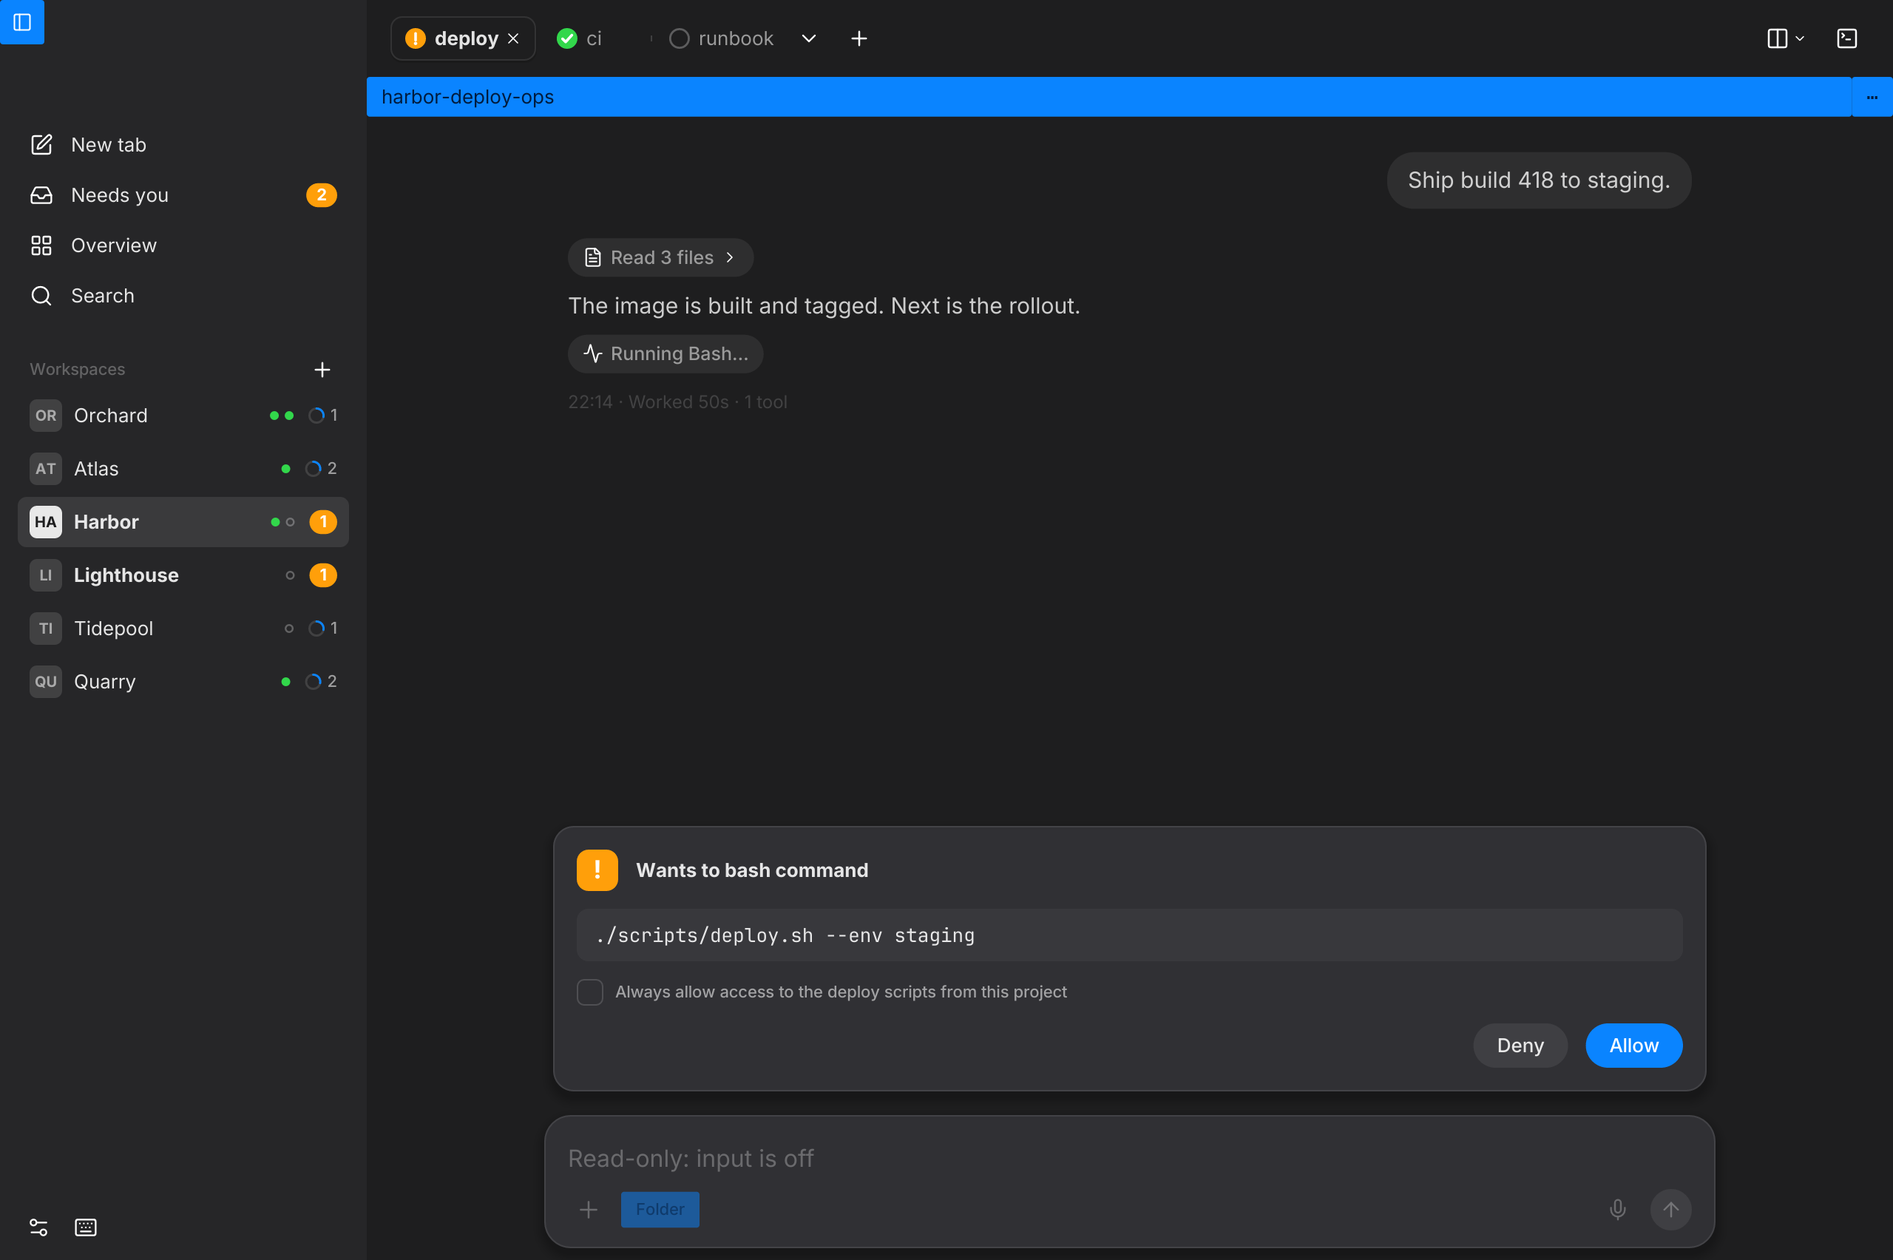
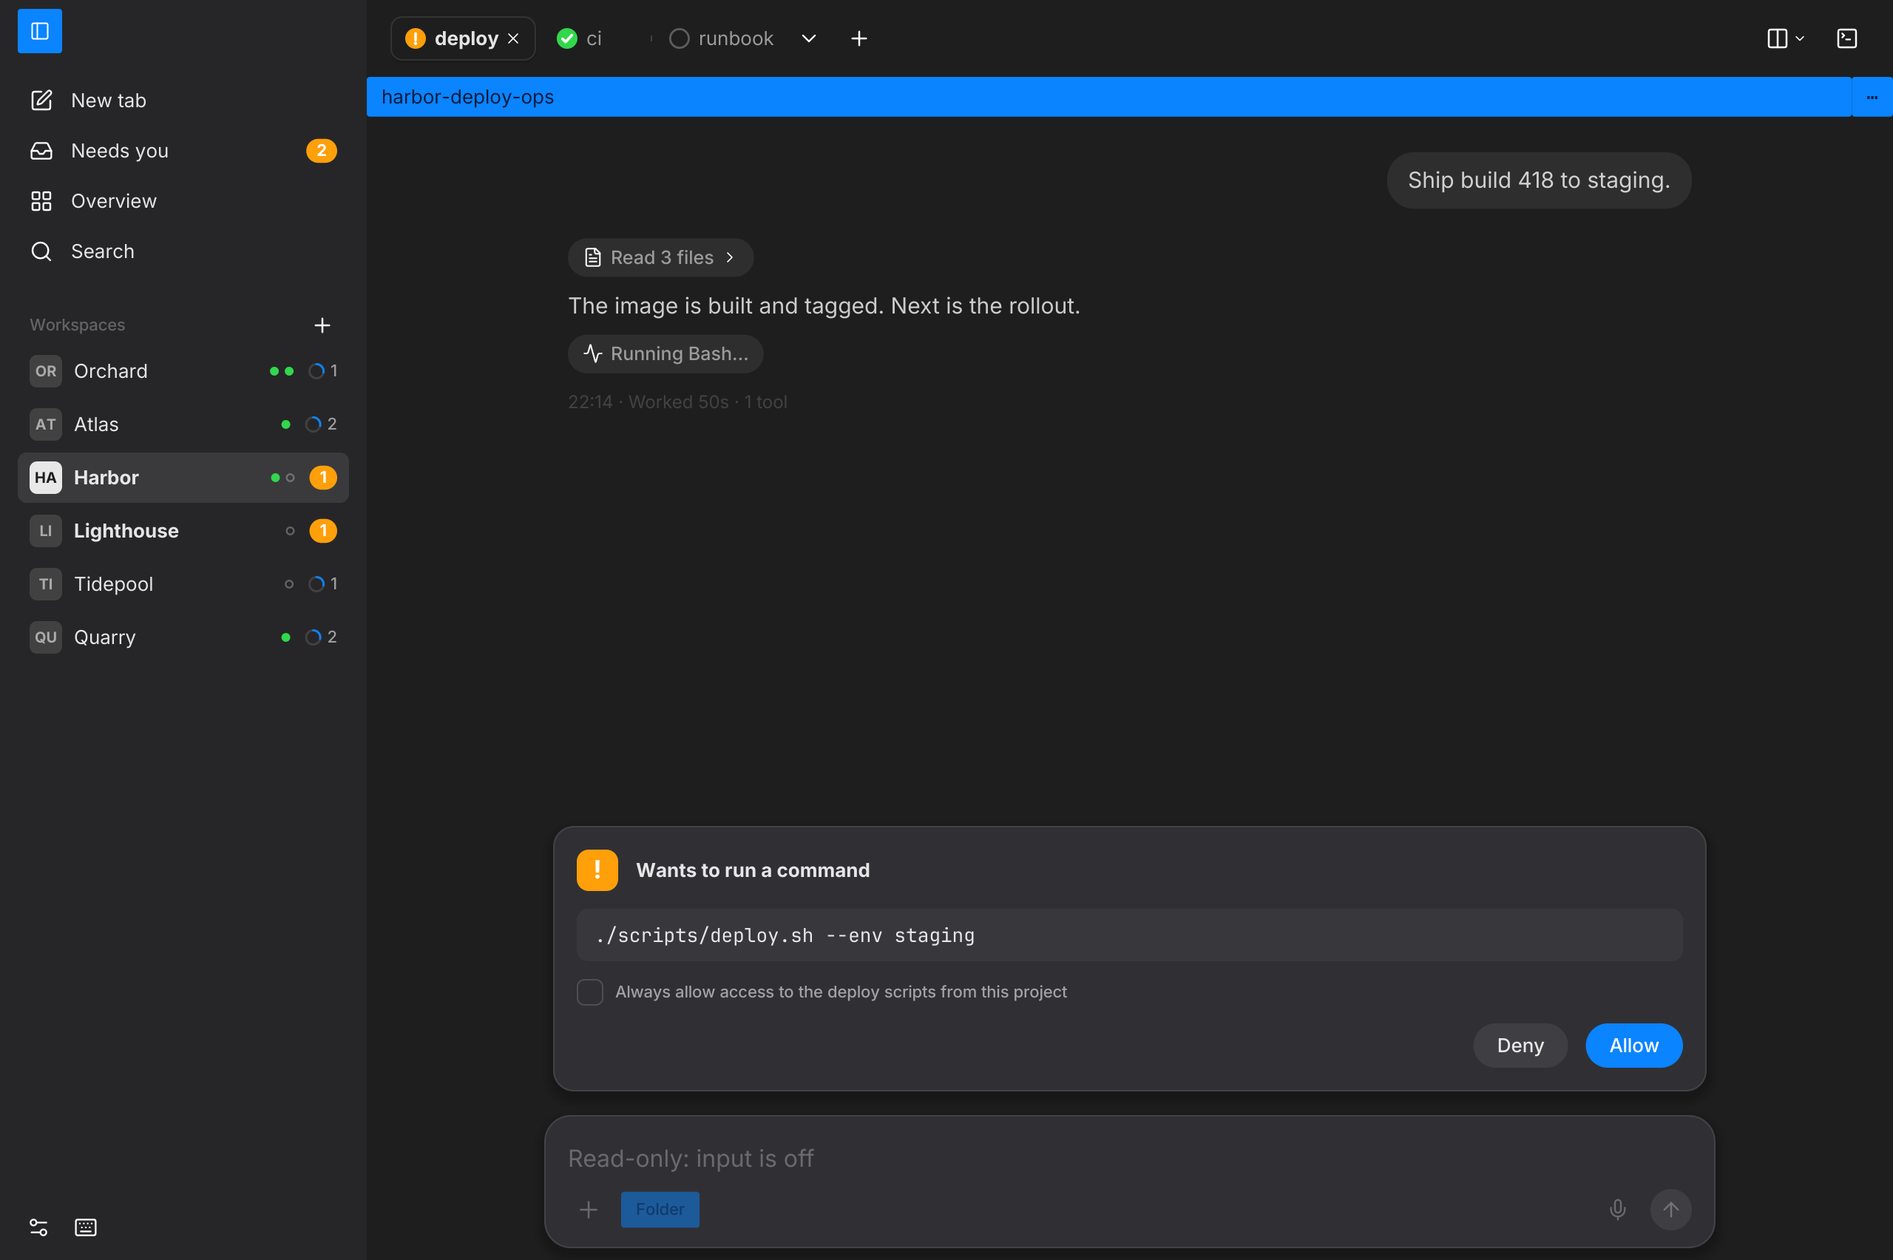
xplat: fix the 32 failing parity tests
Approval cards bind the logged pending request before any screen-only
request, Show earlier follows the load result, the sidebar top stays a
drag area, Settings tests open the Agents tab, the file picker inserts
paths, and a failed send's notice stays on its own pane.

Claude-Session: https://claude.ai/code/session_015NpaT4959uXQHQEhxDjdNt

diff --git a/xplat/flockbook/src/cards.rs b/xplat/flockbook/src/cards.rs
@@ -16,7 +16,8 @@
 //!   running tool. The card binds only to a lone Bash call of a Claude agent (no other call still open), and the screen must show
 //!   exactly its command as a Bash prompt ([`actions::request_shows`]); else the card is `unbound` (buttons off, a
 //!   notice to open the terminal). With no [`PaneActions`] installed (read-only) the screen cannot be read: the card
-//!   shows with its buttons off.
+//!   shows with its buttons off. When the log has no pending request (the agent logs the call late, or not at all), a
+//!   prompt on screen makes the card by itself ([`actions::screen_request`], Grok's framed box), through the same binder.
 //! - Question: Claude's open picker read from the screen (`question::claude_screen`; Claude logs the call only after
 //!   the answer), else a pending question item in the log (Codex).
 //!
@@ -180,38 +181,44 @@ pub fn detect(app: &App) -> Option<Card> {
                     }));
                 }
             }
+            // A pending request in the log is the request the owner is shown. The screen only says whether that request
+            // is on screen ([`actions::request_shows`]): a screen showing a different command never binds it, and it is
+            // never replaced by a request made up from the screen. Screen-only prompts are the fallback for the modes where
+            // the agent logs the call late (or not at all).
+            let logged = match last {
+                Some(ItemKind::PermissionRequest(p)) if p.state == PermState::Pending => Some(p),
+                _ => None,
+            };
+            if let Some(p) = logged {
+                let (can_act, always) = match (&st.actions, screen) {
+                    (None, _) => (false, None),
+                    (Some(_), Some(text)) if herdr_core::screen_shows_prompt(text) => (true, actions::always_allow(text)),
+                    // Not read yet, or no prompt on screen (a running tool): no card.
+                    (Some(_), _) => return None,
+                };
+                let identity = screen.filter(|_| can_act).and_then(actions::prompt_identity);
+                // Only a lone Bash call can bind: with parallel calls the screen may show another call's prompt.
+                let bindable = agent.kind == "claude" && p.tool_name == "Bash" && p.open_calls == 1;
+                let unbound = can_act && !(bindable && identity.as_ref().is_some_and(|id| actions::request_shows(id, &p.command, &p.detail)));
+                return Some(Card::Approval(Approval {
+                    key: format!("{}:{}", pane.id, p.tool_use_id),
+                    pane: pane.id.clone(),
+                    agent: agent.name.clone(),
+                    title: p.title.clone(),
+                    command: p.command.clone(),
+                    detail: p.detail.clone(),
+                    always,
+                    identity,
+                    stale: false,
+                    unbound,
+                    can_act: can_act && !unbound,
+                }));
+            }
             if agent.kind == "claude" {
                 if let Some((p, identity)) = screen.and_then(|s| Some((actions::screen_request(s)?, actions::prompt_identity(s)?))) {
                     return Some(Card::Approval(Approval {
                         key: format!("{}:{}", pane.id, p.tool_use_id), pane: pane.id.clone(), agent: agent.name.clone(),
                         title: p.title, command: p.command, detail: p.detail, always: screen.and_then(actions::always_allow), identity: Some(identity), stale: false, unbound: false, can_act: st.actions.is_some(),
-                    }));
-                }
-            }
-            if let Some(ItemKind::PermissionRequest(p)) = last {
-                if p.state == PermState::Pending {
-                    let (can_act, always) = match (&st.actions, screen) {
-                        (None, _) => (false, None),
-                        (Some(_), Some(text)) if herdr_core::screen_shows_prompt(text) => (true, actions::always_allow(text)),
-                        // Not read yet, or no prompt on screen (a running tool): no card.
-                        (Some(_), _) => return None,
-                    };
-                    let identity = screen.filter(|_| can_act).and_then(actions::prompt_identity);
-                    // Only a lone Bash call can bind: with parallel calls the screen may show another call's prompt.
-                    let bindable = agent.kind == "claude" && p.tool_name == "Bash" && p.open_calls == 1;
-                    let unbound = can_act && !(bindable && identity.as_ref().is_some_and(|id| actions::request_shows(id, &p.command, &p.detail)));
-                    return Some(Card::Approval(Approval {
-                        key: format!("{}:{}", pane.id, p.tool_use_id),
-                        pane: pane.id.clone(),
-                        agent: agent.name.clone(),
-                        title: p.title.clone(),
-                        command: p.command.clone(),
-                        detail: p.detail.clone(),
-                        always,
-                        identity,
-                        stale: false,
-                        unbound,
-                        can_act: can_act && !unbound,
                     }));
                 }
             }

diff --git a/xplat/flockbook/src/composer.rs b/xplat/flockbook/src/composer.rs
@@ -637,9 +637,13 @@ pub fn update(app: &mut App, msg: ComposerMsg) -> Task<Message> {
                         .or_default()
                         .push((text, pending.images));
                 }
-                c.error = Some(format!(
-                    "Send incomplete: {e}. Check the agent terminal before retrying."
-                ));
+                // The note belongs to the box it happened in (one composer per pane in the Swift app): a failure
+                // for a pane that is not shown must not put a note under the shown pane's draft.
+                if current {
+                    c.error = Some(format!(
+                        "Send incomplete: {e}. Check the agent terminal before retrying."
+                    ));
+                }
             } else if let Some(journal) = c
                 .sender
                 .as_ref()
@@ -675,12 +679,12 @@ pub fn update(app: &mut App, msg: ComposerMsg) -> Task<Message> {
                 })
             })
         }
-        ComposerMsg::Picked { pane, paths } => attach_paths(app, pane, paths),
+        ComposerMsg::Picked { pane, paths } => attach_paths(app, pane, paths, false),
         ComposerMsg::Attached(paths) => {
             let Some(pane) = app.state.composer.pane.clone() else {
                 return Task::none();
             };
-            attach_paths(app, pane, paths)
+            attach_paths(app, pane, paths, false)
         }
         ComposerMsg::Paste => {
             let Some(pane) = app.state.composer.pane.clone() else {
@@ -708,7 +712,7 @@ pub fn update(app: &mut App, msg: ComposerMsg) -> Task<Message> {
         } if !text.is_empty() => {
             app.state.composer.image_jobs = app.state.composer.image_jobs.saturating_sub(1);
             if let Some(paths) = clipboard_files(&text) {
-                return attach_paths(app, pane, paths);
+                return attach_paths(app, pane, paths, true);
             }
             insert_for(&mut app.state.composer, &pane, &text);
             Task::none()
@@ -724,7 +728,7 @@ pub fn update(app: &mut App, msg: ComposerMsg) -> Task<Message> {
             let Some(pane) = app.state.composer.pane.clone() else {
                 return Task::none();
             };
-            attach_paths(app, pane, vec![path])
+            attach_paths(app, pane, vec![path], true)
         }
         ComposerMsg::Images {
             pane,
@@ -1239,13 +1243,20 @@ fn image_path(path: &Path) -> bool {
         )
     })
 }
-fn attach_paths(app: &mut App, pane: String, paths: Vec<PathBuf>) -> Task<Message> {
+/// `chips`: turn image files into preview chips instead of inserting their paths. Only a drop does that. The + picker
+/// inserts every chosen path as text, images and folders included (`attach()`, `Sources/HerdrDesk/Composer.swift:260`),
+/// because the agent reads a path as an attachment.
+fn attach_paths(app: &mut App, pane: String, paths: Vec<PathBuf>, chips: bool) -> Task<Message> {
     if app.state.composer.sender.is_none() {
         return Task::none();
     }
-    let (images, files): (Vec<_>, Vec<_>) = paths
-        .into_iter()
-        .partition(|p| image_path(p) && !p.is_dir());
+    let (images, files): (Vec<_>, Vec<_>) = if chips {
+        paths
+            .into_iter()
+            .partition(|p| image_path(p) && !p.is_dir())
+    } else {
+        (Vec::new(), paths)
+    };
     if files.iter().any(|p| p.to_str().is_none()) {
         app.state.composer.error = Some("Attachment path is not valid UTF-8".into());
         return Task::none();

diff --git a/xplat/flockbook/tests/settings_shortcuts.rs b/xplat/flockbook/tests/settings_shortcuts.rs
@@ -7,7 +7,7 @@ use std::collections::HashMap;
 
 use fb_ui::Mode;
 use flockbook::glass::{self, Backdrop, Os};
-use flockbook::settings::{self, Prefs, ReadingWidth, SettingsMsg};
+use flockbook::settings::{self, Prefs, ReadingWidth, SettingsMsg, SettingsTab};
 use flockbook::shortcuts::{self, Action, Combo, Keys, K, TABLE};
 use flockbook::snapshot::{render_app, write_png};
 use flockbook::state::Screen;
@@ -189,7 +189,14 @@ fn cmd_comma_toggles_settings_and_closes_the_panel() {
     assert!(app.state.settings.open);
     assert!(!app.state.shortcuts.open, "one sheet at a time");
     let mut s = sim(&app);
-    for label in ["Settings", "Appearance", "Window", "Reading", "Width", "Input", "Allow sending input to agents"] {
+    for label in ["Settings", "Appearance", "Window", "Reading", "Width"] {
+        assert!(s.find(label).is_ok(), "{label}");
+    }
+    drop(s);
+    // The input row is on the Agents tab, where the Swift app keeps it (`SettingsView.page`, its `agents` page).
+    let _ = app.update(Message::Settings(SettingsMsg::SelectTab(SettingsTab::Agents)));
+    let mut s = sim(&app);
+    for label in ["Input", "Allow sending input to agents"] {
         assert!(s.find(label).is_ok(), "{label}");
     }
     drop(s);
@@ -225,6 +232,7 @@ fn turning_input_off_removes_the_write_paths_now_and_on_waits_for_a_launch() {
     assert_eq!(app.state.settings.prefs.allow_input, Some(true));
     assert!(app.state.cards.actions.is_none(), "still read-only until the next launch");
     let _ = app.update(Message::Settings(SettingsMsg::Open));
+    let _ = app.update(Message::Settings(SettingsMsg::SelectTab(SettingsTab::Agents)));
     assert!(sim(&app).find(settings::INPUT_NEXT_LAUNCH).is_ok(), "the sheet says this window is still read-only");
 }
 
@@ -234,6 +242,7 @@ fn the_input_row_never_contradicts_the_composer() {
     let mut app = App::demo(Mode::Light, Screen::Conversation);
     assert!(!flockbook::access::writes_live(&app));
     let _ = app.update(Message::Settings(SettingsMsg::Open));
+    let _ = app.update(Message::Settings(SettingsMsg::SelectTab(SettingsTab::Agents)));
     let mut s = sim(&app);
     assert!(s.find(settings::INPUT_NEXT_LAUNCH).is_ok());
     assert!(s.find(settings::INPUT_LIVE).is_err(), "never 'types into your agents' while read-only");
@@ -265,6 +274,7 @@ fn read_only_launch_keeps_the_toggle_off() {
     let _ = app.update(Message::Settings(SettingsMsg::SetAllowInput(true)));
     assert_eq!(app.state.settings.prefs.allow_input, None, "ignored");
     let _ = app.update(Message::Settings(SettingsMsg::Open));
+    let _ = app.update(Message::Settings(SettingsMsg::SelectTab(SettingsTab::Agents)));
     assert!(sim(&app).find("Launched with --read-only: the app only reads, whatever this says.").is_ok());
 }
 

diff --git a/xplat/flockbook/src/chrome.rs b/xplat/flockbook/src/chrome.rs
@@ -54,6 +54,9 @@ pub fn update(app: &mut App, msg: ChromeMsg) -> Task<Message> {
     }
 }
 
+/// The empty band at the top of the sidebar: the traffic lights and a window drag area.
+pub const SIDEBAR_TOP_H: f32 = 52.0;
+
 /// Makes `content` (empty space at the top of the window) act as the title bar when the native one is hidden.
 pub fn drag_area<'a>(app: &App, content: impl Into<Element<'a, Message>>) -> Element<'a, Message> {
     if app.state.chrome.title_bar == TitleBar::Hidden {
@@ -105,8 +108,8 @@ pub fn monogram(raw: &str) -> String {
 pub fn sidebar(app: &App) -> Element<'_, Message> {
     use fb_ui::theme::*;
     use fb_ui::icons::{icon, Icon, SIZE_INLINE};
-    use iced::widget::{button, column, container};
-    use iced::Length;
+    use iced::widget::{button, column, container, row, stack, Space};
+    use iced::{Alignment, Length};
     let t = app.tokens();
     let hidden = app.state.settings.sidebar_hidden();
     let toggle = button(icon(Icon::PanelLeft, SIZE_INLINE, t.label_2)).padding(8)
@@ -114,7 +117,10 @@ pub fn sidebar(app: &App) -> Element<'_, Message> {
     let content: Element<'_, Message> = if hidden {
         column![toggle, button(icon(Icon::Settings2, SIZE_INLINE, t.label_2)).padding(8).on_press(Message::Settings(crate::settings::SettingsMsg::Open))].padding([12, 6]).into()
     } else {
-        column![toggle, crate::sidebar::view(app)].into()
+        // The sidebar's own empty top band is the window's title bar on macOS (`sidebar::view` keeps it 52 pt tall and
+        // empty). The toggle rides on that band instead of pushing it down, so the empty part stays a drag area.
+        let band = container(row![container(toggle).padding([6, 12]), Space::new().width(Length::Fill)]).height(Length::Fixed(SIDEBAR_TOP_H));
+        stack![crate::sidebar::view(app), container(band).width(Length::Fill).align_y(Alignment::Start)].into()
     };
     container(content).width(Length::Fixed(if hidden { 48.0 } else { SIDEBAR_W })).height(Length::Fill)
         .style(crate::style::sidebar(t, app.state.glass.on)).into()

diff --git a/xplat/flockbook/src/cards/view.rs b/xplat/flockbook/src/cards/view.rs
@@ -145,21 +145,13 @@ fn mark<'a>(t: Tokens, on: bool, square: bool) -> Element<'a, Message> {
 
 // ---------------------------------------------------------------- approval
 
-/// "Run a command" -> "Wants to run a command".
-fn wants(title: &str) -> String {
-    let t = title.trim();
-    let mut c = t.chars();
-    match c.next() {
-        Some(f) if f.is_uppercase() && !t.ends_with('?') => format!("Wants to {}{}", f.to_lowercase(), c.as_str()),
-        _ => t.to_string(),
-    }
-}
-
 fn approval<'a>(app: &'a App, a: &'a Approval) -> Element<'a, Message> {
     let t = app.tokens();
     let st = &app.state.cards;
     let tile = container(text("!").size(17).font(HEADLINE.font()).color(t.on_accent)).center(Length::Fixed(28.0)).style(style::fill(t.blocked, 8.0));
-    let title = if a.title.trim().is_empty() { "Wants to run a command".to_string() } else { wants(&a.title) };
+    // The request's own title, as Swift draws it (`ApprovalCard`, `Text(request.title)`): the conversation parser writes
+    // "Wants to run a command", a prompt read from the screen its own header ("Bash command").
+    let title = if a.title.trim().is_empty() { "Wants to run a command".to_string() } else { a.title.trim().to_string() };
     let head = container(row![tile, HEADLINE.text(title).color(t.label)].spacing(SP_12).align_y(Alignment::Center)).id(HEAD_ID);
     // The description is part of what the prompt shows, so the card shows it too: nothing the owner approves is hidden.
     let mut lines = column![MONO.text(a.command.as_str()).size(app.state.settings.reading_size().code()).color(t.label)].spacing(SP_4);

diff --git a/xplat/flockbook/tests/conversation.rs b/xplat/flockbook/tests/conversation.rs
@@ -92,9 +92,11 @@ fn fake_app(items: Vec<ConversationItem>, earlier: usize) -> (App, Items, Rc<Cel
     let src = Fake { inner: demo, items: items.clone(), earlier: earlier.clone() };
     let mut app = App::new(Box::new(src), Mode::Light, Screen::Conversation);
     app.state.select_tab(&ws, &tab);
+    app.refresh();
+    // `refresh` installs the selected pane's own reader (each pane keeps its document, selection and probe), so the
+    // probe and the test clock go on the reader that is shown after it, never on the one it replaced.
     app.state.conversation.probe = Some(Rc::new(RefCell::new(Probe::default())));
     app.state.conversation.sel = test_clock();
-    app.refresh();
     (app, items, earlier)
 }
 
@@ -596,8 +598,8 @@ fn load_earlier_runs_off_the_ui_thread_and_stale_results_are_dropped() {
     let jobs_run = Arc::new(AtomicUsize::new(0));
     let mut app = App::new(Box::new(Paged { inner: demo, items: items.clone(), jobs_run: jobs_run.clone() }), Mode::Light, Screen::Conversation);
     app.state.select_tab(&ws, &tab);
-    app.state.conversation.probe = Some(Rc::new(RefCell::new(Probe::default())));
     app.refresh();
+    app.state.conversation.probe = Some(Rc::new(RefCell::new(Probe::default())));
     settle(&mut app);
     let pane = app.state.conversation.pane.clone().unwrap();
     assert!(app.state.conversation.more_earlier);

diff --git a/xplat/flockbook/src/demo.rs b/xplat/flockbook/src/demo.rs
@@ -173,7 +173,9 @@ fn scripted_conversation(agent: &str) -> Vec<ConversationItem> {
         End::AskQuestion => v.push(item("g-q1", ItemKind::Question(demo_question()), BASE_TS + 50.0)),
         End::Ask(cmd) => v.push(item(
             "g-p1",
-            ItemKind::PermissionRequest(herdr_core::PermissionRequest { title: "Run a command".into(), command: cmd.into(), tool_name: "Bash".into(), tool_use_id: "toolu_demo".into(), state: PermState::Pending, detail: String::new(), open_calls: 1 }),
+            // The title the conversation parser writes for a pending Bash call (Swift `ConversationParser.verb`), so the
+            // demo card reads like a real one.
+            ItemKind::PermissionRequest(herdr_core::PermissionRequest { title: "Wants to run a command".into(), command: cmd.into(), tool_name: "Bash".into(), tool_use_id: "toolu_demo".into(), state: PermState::Pending, detail: String::new(), open_calls: 1 }),
             BASE_TS + 50.0,
         )),
     }

diff --git a/xplat/flockbook/tests/cards.rs b/xplat/flockbook/tests/cards.rs
@@ -319,7 +319,9 @@ fn multi_select_toggles_and_sends_picks_then_the_review_step() {
 
 #[test]
 fn other_text_sends_the_other_row_digit_text_and_enter() {
-    let mut h = H::asking(false, RecordingActions::new(&picker(false)).then(GONE).then(GONE).then(GONE));
+    // The picker stays on screen while the "Other" row is opened and typed into: every step re-reads it before its key
+    // (actions::answer_question), and the digit and the text are sent into the row, not into a closed picker.
+    let mut h = H::asking(false, RecordingActions::new(&picker(false)).then(&picker(false)).then(&picker(false)).then(GONE));
     h.click("cards-opt-0");
     h.click("cards-other-open");
     assert!(h.app.state.cards.other_active);

diff --git a/xplat/flockbook/src/conversation.rs b/xplat/flockbook/src/conversation.rs
@@ -545,9 +545,10 @@ pub fn sync_markdown(app: &mut App) {
         cs.pictures.preview = None;
         cs.pictures.preview_id = None;
     }
-    if !cs.loading_earlier {
-        cs.more_earlier = can_more;
-    }
+    // `more_earlier` belongs to the load result, as in Swift (`Conversation.swift`: `moreEarlier = more`). A poll
+    // tick must not overwrite it with a fresh guess: the source's `can_load_earlier` is the same log the worker
+    // just read, but a source that answers from its own cache would flip the button back on after a load said
+    // there is nothing older. Only a reader that changes session re-reads the log (below).
     cs.rebuilds += 1;
     let rows = build::build_rows(
         items,
